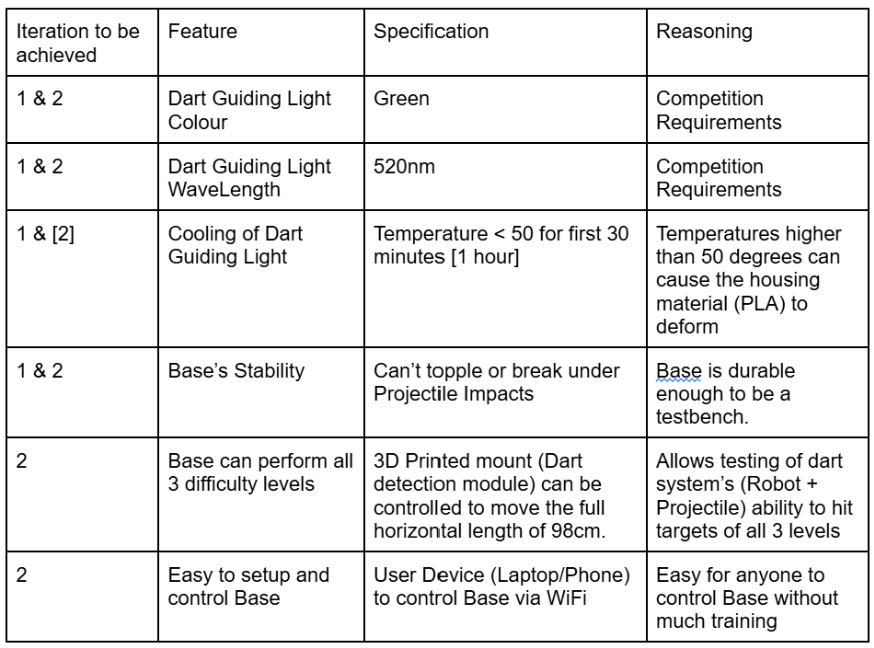
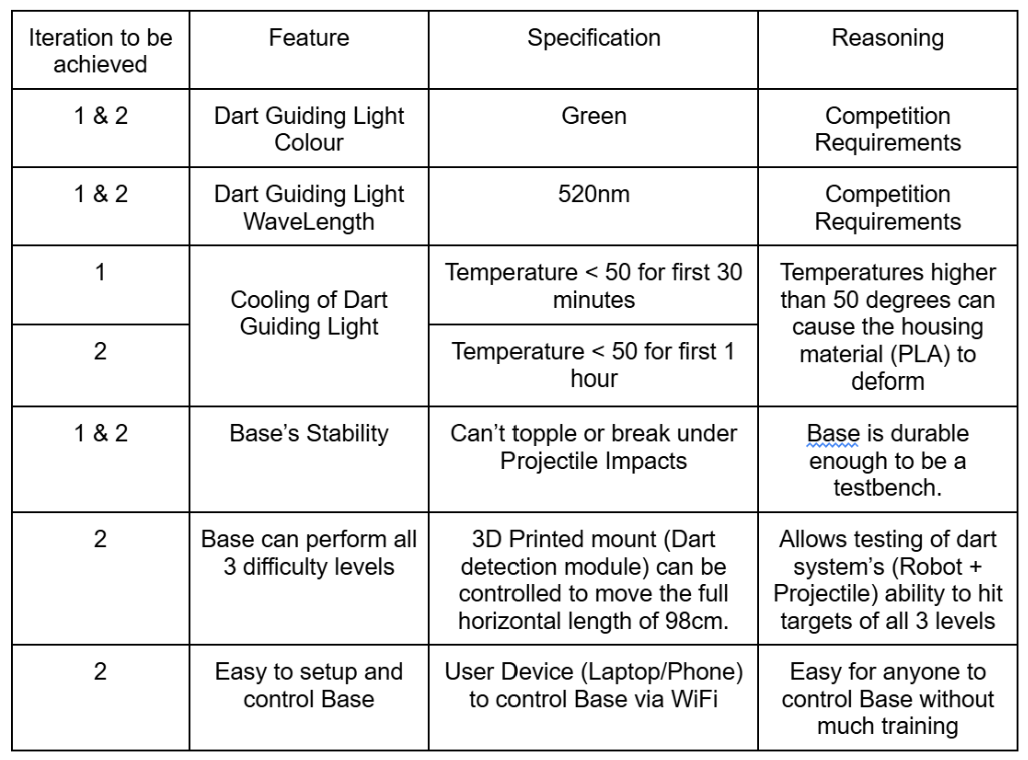
fix base spec table

Changed region(s): [[0.0, 0.0, 1.0, 1.0], [0.5252, 0.216, 0.6178, 0.2778], [0.5561, 0.1235, 0.6178, 0.1852]]

diff --git a/docs/Base Structure.md b/docs/Base Structure.md
@@ -20,7 +20,7 @@ As the official base cannot be purchased, an in-house version will be built to s
   <img src="{{ '/assets/images/vj/Base/Base_Design_Specificcations_Table.png' | relative_url }}" width="600">
 </p>
 {: .text-center}
-<p align="center" class="small-text"><em>Table 8-1: Base_Design_Specificcations_Table</em></p>
+<p align="center" class="small-text"><em>Table 8-1: Base Design Specifications Table</em></p>
 
 ## Base: Passive structure
 First iteration will include the competition’s essential base components. It will be built quickly as a reliable target for the dart robot and projectile, and for other NUS Calibur Robotics robots.
